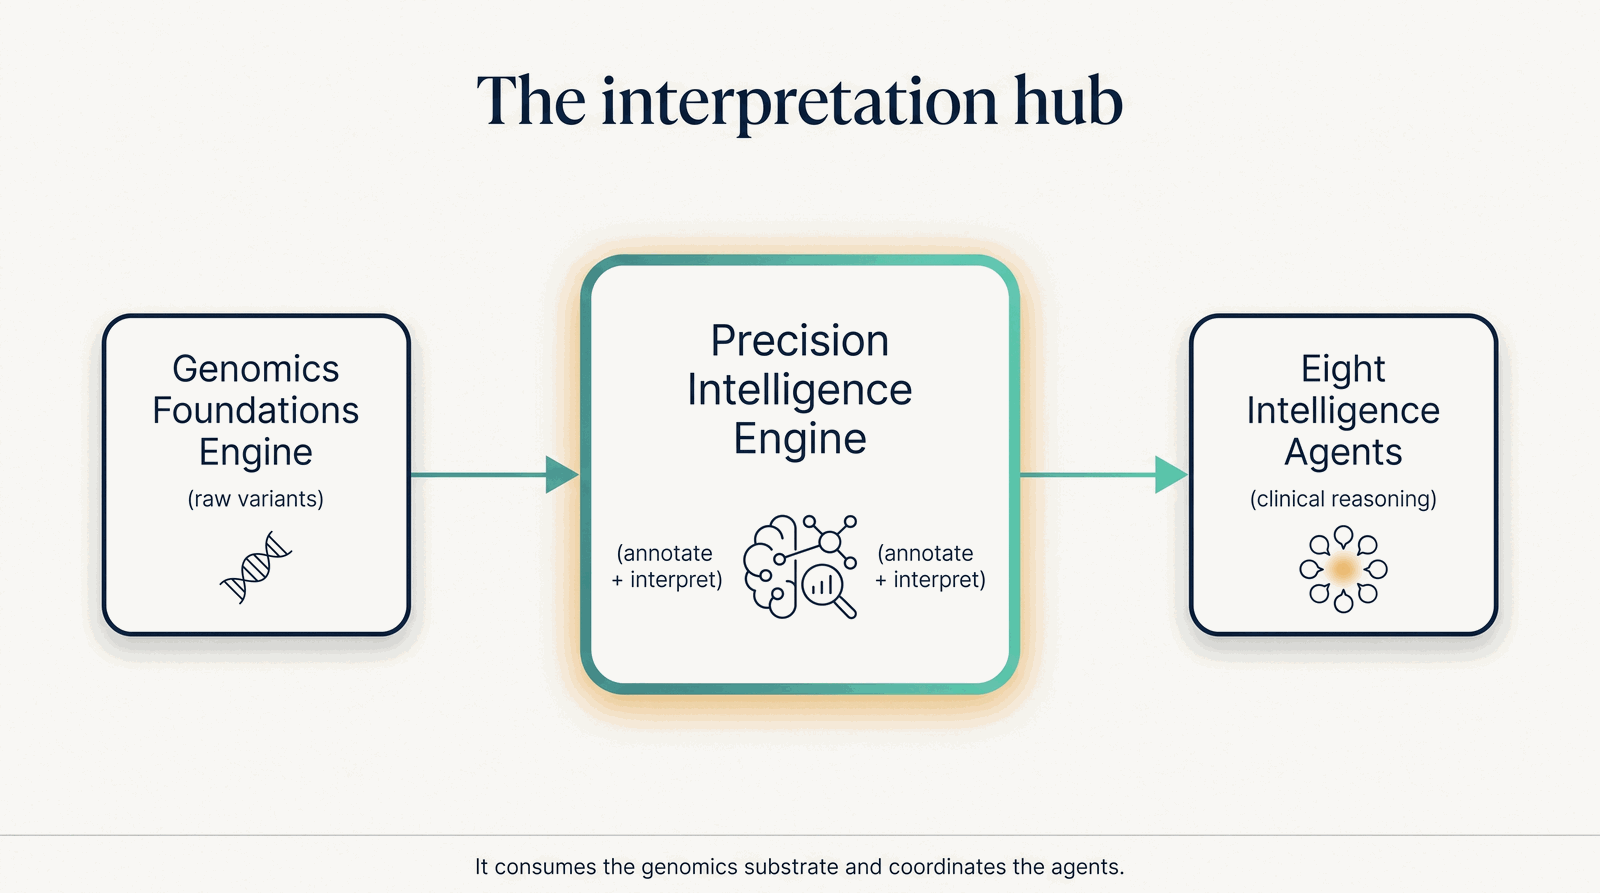
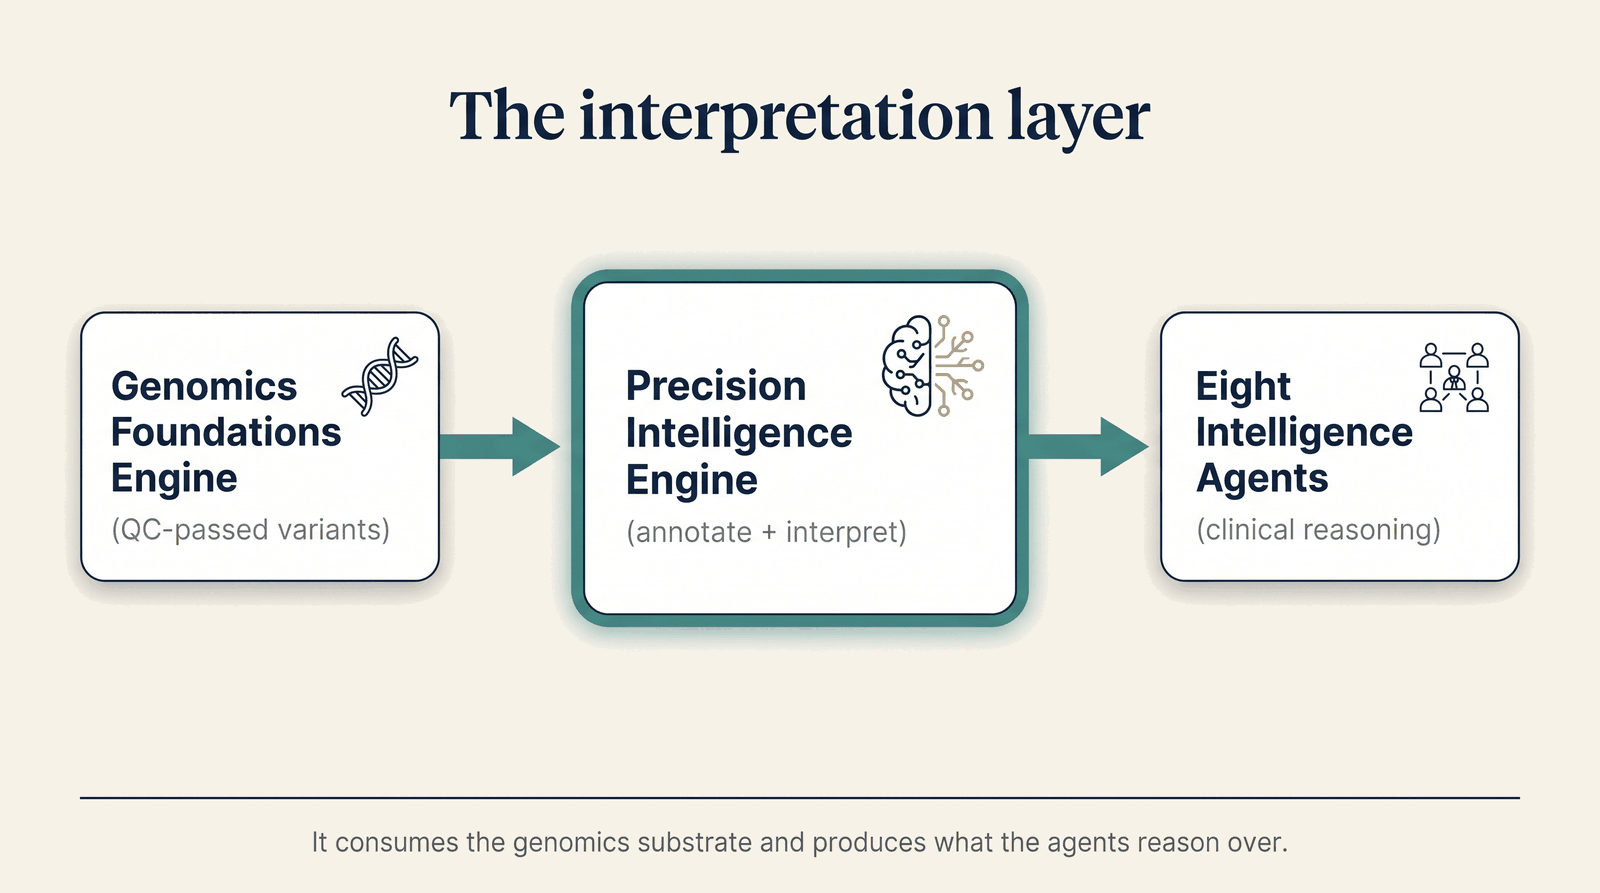
fix(site): correct every infographic that claimed ahead of the registry
Audited all 84 infographics on hcls-ai-factory.org against the capability
registry and the code. Nine carried claims the repo does not support; the
"how"/"fits" images were accurate throughout, so the corrections mostly pull
the older hero images back into line with them.

Status contradicted the registry:
- structural-biology hero showed a `live` badge; the registry marks the engine
  `planned` (nothing binds :8581, no aggregator). Its detail page rendered
  `planned` directly above a hero that said `live`.
- imaging hero led on VISTA-3D segmentation; the registry states plainly that
  the VISTA-3D / VILA-M3 CT path is not yet live and the verified modality is
  chest X-ray via DenseNet-121. The `-how` image already said so.
- both structural-biology images presented developability + MHC immunogenicity
  as delivered; both are `planned`.
- maturity matrix said "+2 more" under Planned; there are 7 planned (4 shown).

Claims with no code behind them:
- three images and the narrative said the Precision Intelligence Engine
  "coordinates the eight intelligence agents". Nothing in that engine
  references an agent port; composing capabilities is the workflow composer's
  job. Reframed as the interpretation layer the agents reason over.
- the E1/E2 boundary was inverted: the genomics hero claimed ClinVar /
  AlphaMissense annotation that the registry assigns to E2, while the E2 hero
  ingested "annotated variants". Neither image showed anything annotating.
[…]

diff --git a/docs/honesty/governance.md b/docs/honesty/governance.md
@@ -9,9 +9,10 @@ Trust in a clinical-decision-support system is not a slogan — it's enforced at
 capability. Governance in the HCLS AI Factory is **mechanical**: the registry is the source of truth,
 and every governed run passes through the same gates.
 
-![Governed by construction — request, governance gate, capability run, signed lineage record](../assets/infographics/governance-lineage.png)
+![Governed by construction — request, governance gate, capability run, lineage record of inputs, chain and hash](../assets/infographics/governance-lineage.png)
 /// caption
-Every capability call passes the gate and leaves an auditable, 21 CFR Part 11-style record.
+A governed run: request → gate → capability → lineage record. See *Where the gates fire today*
+below for current coverage.
 ///
 
 ## The gates every governed run passes
@@ -25,11 +26,37 @@ Every capability call passes the gate and leaves an auditable, 21 CFR Part 11-st
   on anything that isn't actually running. Enforced in code (see the
   [Capability Maturity Matrix](maturity-matrix.md)).
 
+## Where the gates fire today
+
+Honesty about the honesty layer: the gates are **enforced on the governed path** — capability calls
+made through the workflow composer and the tool surface — and adoption across the services' own HTTP
+routes is **in progress**.
+
+| | Coverage |
+|---|---|
+| Governance middleware installed (request id, timing, service identity) | **11 of 12** services |
+| Input-validation gate invoked by a handler | **1 of 12** |
+| Output-honesty gate invoked by a handler | **1 of 12** |
+| API-key authentication available (fail-closed once configured) | **12 of 12** |
+
+The middleware is deliberately *not* a gate: it identifies and times a request. A handler must call
+`require_valid_input()` and `honesty_flags()` for a call to be gated, and the response header
+`X-HCLS-Governed` names only the gates that actually ran — it is absent when none did.
+
+So a request to a service's own route is authenticated and identified, but not yet input-validated
+or honesty-checked unless that service has adopted the calls. We state the number rather than the
+intention.
+
 ## Reproducible lineage (21 CFR Part 11-minded)
 
 Governed runs carry a lineage manifest — inputs, the capability chain that produced each artifact,
 serving details, a composed honesty tier, and a deterministic lineage hash — so a result can be traced
 back to exactly what made it. The design intent is audit-grade reproducibility, not a black box.
+
+**Scope, stated plainly:** the lineage mechanism (`chain_lineage`) is implemented and used on the
+governed composer path. It is **not yet emitted by the services' own HTTP routes**. "21 CFR Part
+11-**minded**" describes the design intent — traceable inputs, attributable steps, a deterministic
+hash — and is not a claim of Part 11 validation or compliance.
 
 ## The neutral, reproducible repository
 

diff --git a/site_content/engines/precision-intelligence-engine.md b/site_content/engines/precision-intelligence-engine.md
@@ -4,7 +4,7 @@ If the [Genomics Foundations Engine](genomics-engine.md) finds **where** a patie
 the Precision Intelligence Engine explains **what they mean**. It is the factory's interpretation
 brain. It takes a raw variant file — millions of rows — and turns it into a short, cited, plain-language
 narrative a clinician can actually use: which variants matter, why, and which point to a druggable
-target. It is also the hub that coordinates the eight intelligence agents.
+target. That interpretation is the shared substrate the eight intelligence agents reason over.
 
 ## Why it matters
 
@@ -17,7 +17,7 @@ does it do to the protein, is there a therapy that targets it. This engine is wh
 
 ## How it works
 
-![Inside the Precision Intelligence Engine — annotate, retrieve, reason, coordinate](../../assets/infographics/pages/precision-intelligence-engine-how.png)
+![Inside the Precision Intelligence Engine — annotate, retrieve, reason, hand off](../../assets/infographics/pages/precision-intelligence-engine-how.png)
 /// caption
 From a variant file to a cited clinical narrative — grounded in retrieved evidence. Illustrative.
 ///
@@ -28,8 +28,9 @@ From a variant file to a cited clinical narrative — grounded in retrieved evid
    database, so the narrative is built on real sources rather than a model's memory.
 3. **Reason** — a language model writes a grounded interpretation **with citations**, surfaces
    druggable targets, and is built to refuse rather than fabricate when evidence is thin.
-4. **Coordinate** — it routes questions to the eight specialist agents (pharmacogenomics, oncology,
-   rare disease, and the rest) and pulls their answers together.
+4. **Hand off** — the interpreted result is what the eight specialist agents (pharmacogenomics,
+   oncology, rare disease, and the rest) reason over. Chaining engines and agents into one governed
+   run is the [workflow composer's](../../factory/platform.md) job, not this engine's.
 
 ## What goes in, what comes out
 
@@ -40,7 +41,8 @@ From a variant file to a cited clinical narrative — grounded in retrieved evid
 
 ![Where the Precision Intelligence Engine sits — between genomics and the eight agents](../../assets/infographics/pages/precision-intelligence-engine-fits.png)
 /// caption
-The interpretation hub: it consumes the genomics substrate and coordinates the eight agents. Illustrative.
+The interpretation layer: it consumes the genomics substrate and produces what the eight agents
+reason over. Illustrative.
 ///
 
 It sits directly downstream of genomics and upstream of the agents — the interpretation layer the
